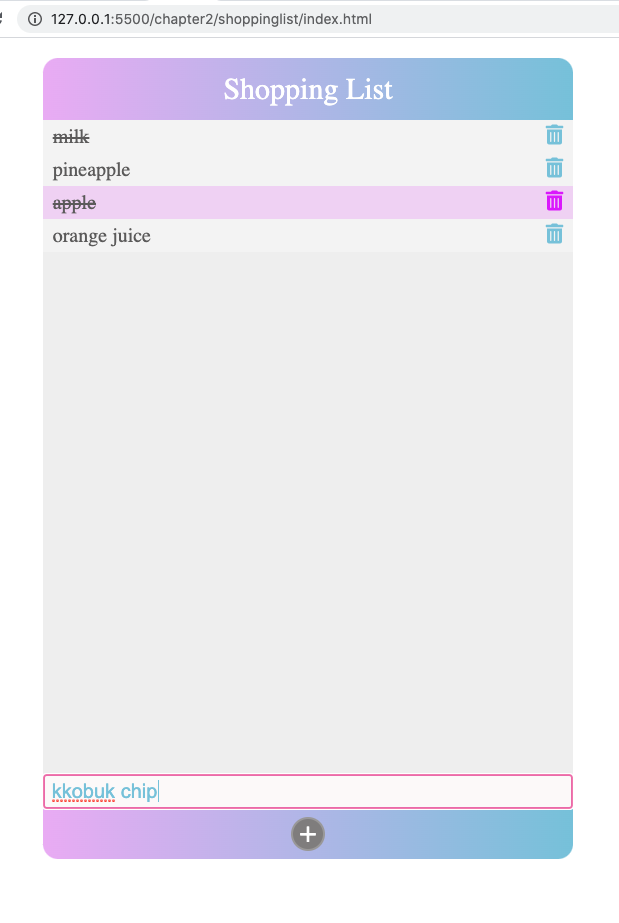
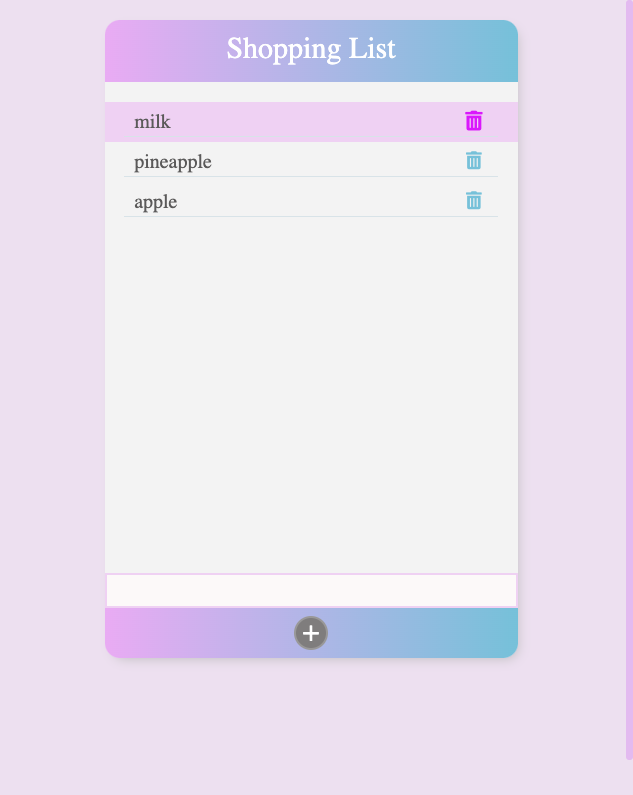
added buttons, and css

diff --git a/shoppinglist/style.css b/shoppinglist/style.css
@@ -1,27 +1,42 @@
 html {
   height: 100%;
-  margin: 10px;
+  margin: 20px;
 }
 
 body {
+  background-color: #efe4f2;
+  /* background-color: #e0efff; */
   height: 80%;
   width: 70%;
   margin: auto;
   color: #666565;
+}
+button {
+  outline: none;
+  background: transparent;
+  border: none;
+  cursor: pointer;
+}
+
+.shopping-list {
+  height: 100%;
+  width: 100%;
   display: flex;
   flex-direction: column;
+  -webkit-box-shadow: 4px 5px 12px -5px rgba(194, 194, 194, 1);
+  -moz-box-shadow: 4px 5px 12px -5px rgba(194, 194, 194, 1);
+  border-radius: 15px;
+  /* to apply shadow on border radius not on squarex */
+  box-shadow: 4px 5px 12px -5px rgba(194, 194, 194, 1);
 }
 
 .header {
-  flex: 0 0 auto;
   height: 50px;
   color: #fff;
   font-size: 30px;
   text-align: center;
   border-radius: 15px 15px 0 0;
   padding: 10px 0px 2px 0px;
-}
-.title {
   vertical-align: middle;
 }
 
@@ -34,42 +49,58 @@ body {
     rgba(129, 200, 222, 1) 100%
   );
 }
-.item-container {
-  flex: 1 0 auto;
-  background-color: #f0f0f0;
-}
-.item-container ul {
+
+ul.item-list {
+  flex: 1;
   list-style: none;
   margin: 0;
   font-size: 20px;
   background-color: #f5f5f5;
-  padding: 0;
-  /* padding: 5px 10px; */
+  /* padding: 20px 15px; */
+  padding: 20px 0px;
+  overflow-y: auto;
 }
-.item-list li {
-  padding: 5px 10px 5px 10px;
-  display: flex;
-  flex-direction: row;
-  justify-content: space-between;
+
+.item-row {
+  padding: 5px 10px;
+  /* padding: 5px 10px 5px 10px; */
   vertical-align: middle;
+}
+.item {
+  display: flex;
+  justify-content: space-between;
+  flex-direction: row;
+  vertical-align: middle;
+
+  width: 90%;
+  margin: auto;
+  padding: 3px 2px;
+}
+.item-divider {
+  width: 95%;
+  margin: auto;
+  height: 1px;
+  background-color: #dde7eb;
+  /* since div is a block level, automatically has right margin */
+  /* margin-bottom: 7px; */
+  /* to set the margin s.t. item goes into the middle */
 }
 .item-list li:hover {
   background-color: #f1d7f5;
 }
 .item-delete-icon {
+  font-size: 18px;
   color: #81c8de;
-  cursor: pointer;
+  /* cursor: pointer; */
+  transition: all 300ms ease-in;
 }
 .item-delete-icon:hover {
   color: #df19fc;
+  transform: scale(1.1);
 }
 .stroked {
   /* finished todo */
   text-decoration: line-through;
-}
-
-.bottom {
-  flex: 0 0 auto;
 }
 
 .footer {
@@ -77,13 +108,14 @@ body {
   text-align: center;
   height: 85px;
   line-height: 30px;
-  border-radius: 0 0 15px 15px;
+  border-radius: 0px 0px 15px 15px;
 }
 .input-text {
   width: 100%;
   height: 35px;
   background-color: #fcfafa;
   border: 2px solid #f1d7f5;
+  outline: none;
   color: #81c8de;
   padding: 7px;
   box-sizing: border-box;
@@ -108,4 +140,25 @@ body {
   border-radius: 50%;
   vertical-align: middle;
   cursor: pointer;
+  transition: transform 200ms ease-in;
+}
+.add-icon:hover {
+  transform: scale(1.1);
+}
+
+::-webkit-scrollbar {
+  width: 7px;
+}
+
+::-webkit-scrollbar-track {
+  /* box-shadow: inset 0 0 5px grey; */
+  /* border-radius: 10px; */
+}
+
+::-webkit-scrollbar-thumb {
+  background: #e7c2f2;
+  border-radius: 5px;
+}
+::-webkit-scrollbar-thumb:hover {
+  background: #e6b5f4;
 }

diff --git a/shoppinglist/main.js b/shoppinglist/main.js
@@ -1,19 +1,68 @@
 const itemList = document.querySelector('.item-list');
-const items = document.querySelectorAll('.item-text');
+const items = document.querySelectorAll('.item-row');
 const addIcon = document.querySelector('.add-icon');
 const trashIcons = document.querySelectorAll('.item-delete-icon');
 const textInput = document.querySelector('.input-text');
 
-function addItem(itemStr) {
-  if (itemStr) {
-    const newLi = document.createElement('li');
-    newLi.innerHTML = `
-        <span class="item-text" onClick="toggleStrike(this)">${itemStr}</span>
-        <i class="fas fa-trash-alt item-delete-icon" onClick="deleteItem(this)"></i>
-        `;
-    textInput.value = '';
-    itemList.append(newLi);
+function onAdd(itemStr) {
+  if (!itemStr || itemStr === '') {
+    textInput.focus(); // bc focus gets moved to button.
+    return;
   }
+
+  const newLi = createItem(itemStr);
+
+  textInput.value = '';
+  textInput.focus();
+  itemList.append(newLi);
+
+  newLi.scrollIntoView({ block: 'center' });
+  return;
+}
+function createItem(text) {
+  // const newLi = document.createElement('li');
+  // newLi.setAttribute('class', 'item-row');
+  // newLi.innerHTML = `
+  //   <div class="item">
+  //     <span class="item-text" onClick="toggleStrike(this)">${itemStr}</span>
+  //     <button class="item-delete-icon" onClick="deleteItem(this)">
+  //       <i class="fas fa-trash-alt "></i>
+  //     </button>
+  //   </div>
+  //   <div class="item-divider"></div>
+  //   `;
+  // <span class="item-text" onClick="toggleStrike(this)">${itemStr}</span>
+  // <i class="fas fa-trash-alt item-delete-icon" onClick="deleteItem(this)"></i>
+
+  const itemRow = document.createElement('li');
+  itemRow.setAttribute('class', 'item-row');
+
+  const item = document.createElement('div');
+  item.setAttribute('class', 'item');
+
+  const name = document.createElement('span');
+  name.setAttribute('class', 'item-text');
+  name.innerHTML = text;
+  item.addEventListener('click', () => {
+    toggleStrike(name);
+  });
+
+  const deleteBtn = document.createElement('button');
+  deleteBtn.setAttribute('class', 'item-delete-icon');
+  deleteBtn.innerHTML = '<i class="fas fa-trash-alt"></i>';
+  deleteBtn.addEventListener('click', () => {
+    itemList.removeChild(itemRow);
+  });
+
+  const itemDivider = document.createElement('div');
+  itemDivider.setAttribute('class', 'item-divider');
+
+  item.appendChild(name);
+  item.appendChild(deleteBtn);
+
+  itemRow.appendChild(item);
+  itemRow.appendChild(itemDivider);
+  return itemRow;
 }
 
 function toggleStrike(item) {
@@ -21,19 +70,17 @@ function toggleStrike(item) {
 }
 
 function deleteItem(item) {
-  //   console.log(item);
-  //   console.log(item.parentElement);
-  item.parentElement.remove();
+  item.parentElement.parentElement.remove();
 }
 
 textInput.addEventListener('keyup', (e) => {
   if (e.keyCode === 13) {
-    addItem(textInput.value);
+    onAdd(textInput.value);
   }
 });
 
 addIcon.addEventListener('click', () => {
-  addItem(textInput.value);
+  onAdd(textInput.value);
 });
 
 // initializing for existing ones

diff --git a/shoppinglist/index.html b/shoppinglist/index.html
@@ -11,35 +11,46 @@
       integrity="sha384-HzLeBuhoNPvSl5KYnjx0BT+WB0QEEqLprO+NBkkk5gbc67FTaL7XIGa2w1L0Xbgc"
       crossorigin="anonymous"
     />
-
     <link rel="stylesheet" href="style.css" />
   </head>
   <body>
-    <header class="header linear-gradient">
-      <span class="title">
+    <section class="shopping-list">
+      <header class="header linear-gradient">
         Shopping List
-      </span>
-    </header>
-    <div class="item-container">
+      </header>
       <ul class="item-list">
-        <li>
-          <span class="item-text">milk</span>
-          <i class="fas fa-trash-alt item-delete-icon"></i>
+        <li class="item-row">
+          <div class="item">
+            <span class="item-text">milk</span>
+            <button class="item-delete-icon">
+              <i class="fas fa-trash-alt "></i>
+            </button>
+          </div>
+          <div class="item-divider"></div>
         </li>
-        <li>
-          <span class="item-text">pineapple</span>
-          <i class="fas fa-trash-alt item-delete-icon"></i>
+        <li class="item-row">
+          <div class="item">
+            <span class="item-text">pineapple</span>
+            <button class="item-delete-icon">
+              <i class="fas fa-trash-alt "></i>
+            </button>
+          </div>
+          <div class="item-divider"></div>
         </li>
-        <li>
-          <span class="item-text">apple</span>
-          <i class="fas fa-trash-alt item-delete-icon"></i>
+        <li class="item-row">
+          <div class="item">
+            <span class="item-text">apple</span>
+            <button class="item-delete-icon">
+              <i class="fas fa-trash-alt "></i>
+            </button>
+          </div>
+          <div class="item-divider"></div>
         </li>
       </ul>
-      <div class=""></div>
-    </div>
-    <footer class="bottom footer linear-gradient">
-      <input class="input-text" type="text" />
-      <span class="add-icon">+</span>
-    </footer>
+      <footer class="footer linear-gradient">
+        <input class="input-text" type="text" />
+        <span class="add-icon">+</span>
+      </footer>
+    </section>
   </body>
 </html>
